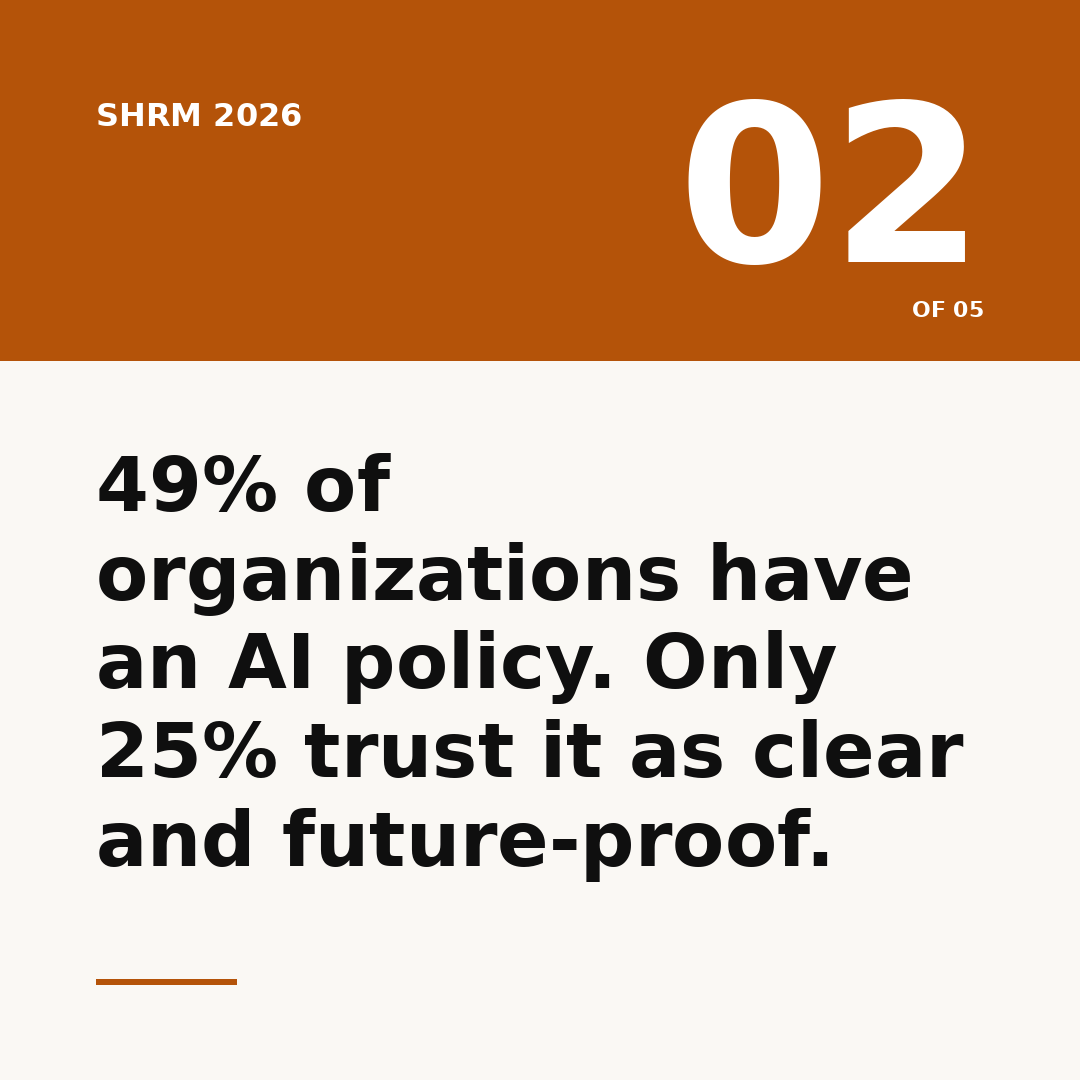
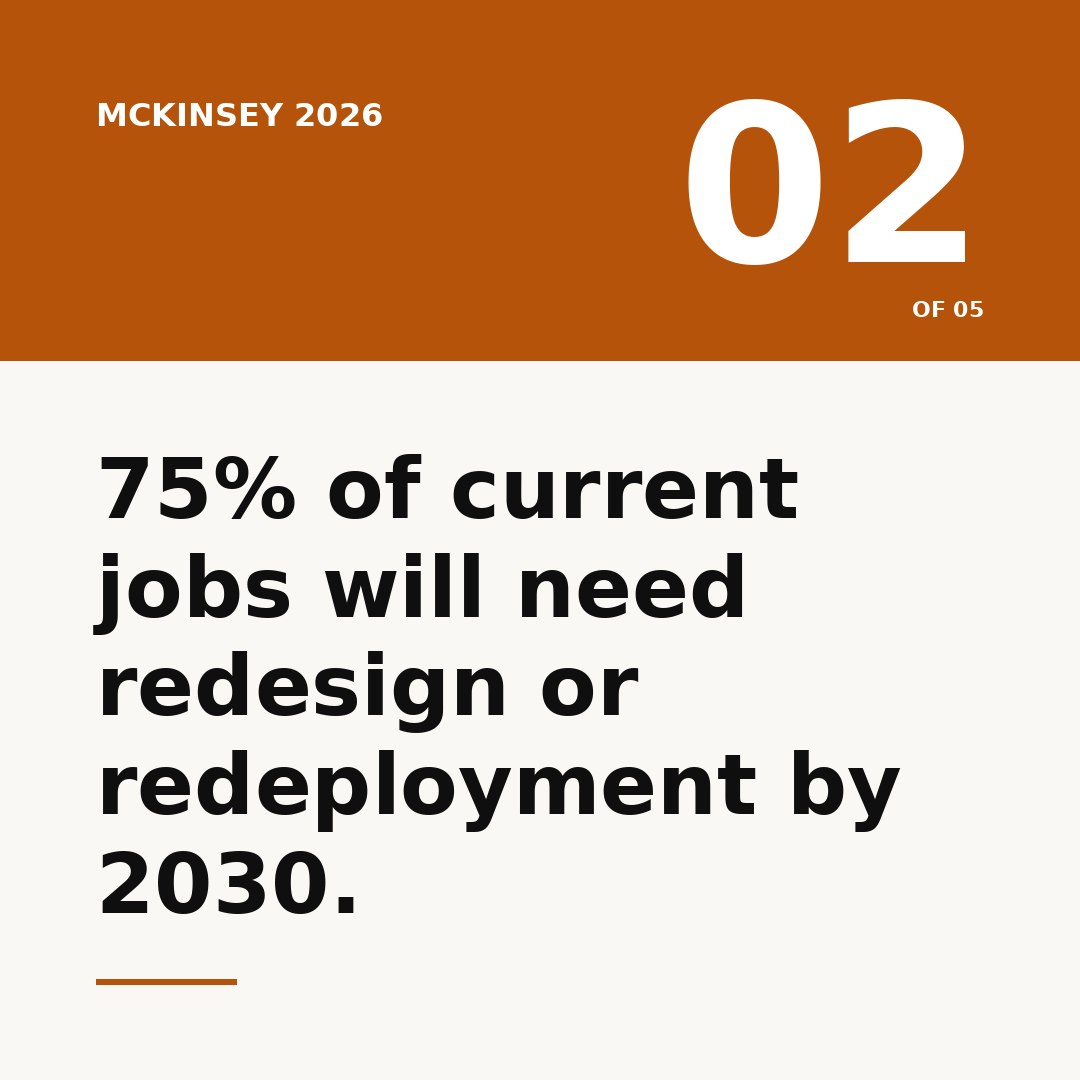
/linkedin-post run for 2026-05-19 (v7): two non-overlapping themes
Climate / heat as HR variable (ILO + WEF + IFC) and scenario-based
workforce planning under AI uncertainty (McKinsey + BCG). Both
verified distinct from all 14 prior themes on the dedup ledger plus
the Gen Z / workforce-data adjacencies flagged on the prior draft.

Only 2 options this run instead of 3 — the third-theme scout hit
two consecutive 529 (server overload) errors. Rather than recycle a
covered theme or accept adjacency, this commit delivers two strong
non-overlapping options; a third can be added via follow-up scout
when the API is stable. Orphaned option-3 carousel (expat-package-
retired from prior commit d0d5f57) removed from working tree.

Changed region(s): [[0.0917, 0.3972, 0.8861, 0.8556], [0.0917, 0.0917, 0.3667, 0.1222]]

diff --git a/posts/drafts/best-practices-2026-05-19.md b/posts/drafts/best-practices-2026-05-19.md
@@ -1,87 +1,63 @@
-# Daily HR best-practices posts — 2026-05-19 (v6, novel themes)
+# Daily HR best-practices posts — 2026-05-19 (v7, two genuinely-distant themes)
 
 Source brief: posts/drafts/best-practices-research-2026-05-19.md (novel-themes special run)
 Regional lens: APAC relevance filter, universal framing.
-Themes covered: AI value-capture paradox, AI governance in HR, Global mobility reinvention.
+Themes covered: climate/heat as HR variable, scenario-based workforce planning under AI uncertainty.
 
-All three themes confirmed distinct from the 11 entries in `.claude/skills/linkedin-post/usage-history.md`.
+**Note: 2 options instead of 3 this run.** The third-theme scout hit two consecutive 529 (server overload) errors and never executed. Rather than recycle an already-covered theme or accept adjacency to one of the 14 entries on the exclusion list, this run delivers two strong non-overlapping options. A third can be added with a follow-up scout when the API is stable.
 
-Prior runs preserved in git history (commits c2400ef, 1ffa92f, 9f2ad7b, f2dc9b0, d2aee45, 86fc0e4).
+Both themes verified distinct from all 14 prior entries in `.claude/skills/linkedin-post/usage-history.md` plus the Gen Z / workforce-data adjacencies flagged on the prior draft.
+
+Prior runs preserved in git history (commits c2400ef, 1ffa92f, 9f2ad7b, f2dc9b0, d2aee45, 86fc0e4, d0d5f57).
 
 ---
 
-## Option 1 — ai-value-is-a-measurement-problem
-- **Theme:** AI productivity paradox / value-capture gap (5 Tier-1 firms: PwC, McKinsey, BCG, Deloitte, Mercer)
-- **Source reports:** PwC 29th Global CEO Survey 2026; BCG "Making AI Productivity Deliver Real Value" 2026; McKinsey "AI productivity gains and the performance paradox" 2026
-- **Source URLs:** https://www.pwc.com/gx/en/news-room/press-releases/2026/pwc-2026-global-ceo-survey.html · https://www.bcg.com/publications/2026/making-ai-productivity-deliver-real-value · https://www.mckinsey.com/capabilities/strategy-and-corporate-finance/our-insights/where-ai-will-create-value-and-where-it-wont
+## Option 1 — climate-is-an-hr-variable
+- **Theme:** Climate / heat as labor productivity issue (APAC-acute) — 3 multilateral sources: ILO, WEF, IFC
+- **Source reports:** ILO heat-stress and labour productivity data (updated 2026); WEF climate-workforce stories 2026; IFC "Hidden Potential: Inclusive Jobs in Green Transitions" 2026
+- **Source URLs:** https://www.ilo.org/resource/news/increase-heat-stress-predicted-bring-productivity-loss-equivalent-80 · https://www.ifc.org/content/dam/ifc/doc/2026/how-employers-can-accelerate-inclusive-jobs-in-green-transitions.pdf
 - **Carousel (5 slides):** posts/drafts/carousels/2026-05-19-option-1/
-  - slide-1 · Future of work · "AI investment without value capture is becoming the rule."
-  - slide-2 · PwC 2026 · "56% of CEOs got nothing from their AI investments."
-  - slide-3 · BCG 2026 · "Just 5% of firms capture substantial financial gains from AI."
-  - slide-4 · The CHRO read · "The 5% built a measurement discipline first — operating model, baseline, ROI cadence."
-  - slide-5 · Your move · "What's your AI value-capture cadence?"
-- **Image alt:** Minimalist navy-accented card: "AI investment without value capture is becoming the rule."
-- **Word count:** 48
+  - slide-1 · Climate risk · "Climate is becoming a measurable HR variable."
+  - slide-2 · ILO 2026 · "70% of the global workforce — 2.4B workers — is exposed to excessive heat at work."
+  - slide-3 · ILO 2026 · "By 2030, heat stress could cost 3.8% of global working hours."
+  - slide-4 · The CHRO read · "APAC and South Asia bear the highest exposure. Heat policy is HR policy."
+  - slide-5 · Your move · "Where does climate sit in your workforce planning?"
+- **Image alt:** Minimalist navy-accented card: "Climate is becoming a measurable HR variable."
+- **Word count:** 49
 - **Status:** draft
 
 ---POST---
-AI investment without value capture is becoming the rule.
+Climate is becoming a measurable HR variable.
 
-PwC 2026: 56% of CEOs say they got nothing from AI. BCG: just 5% capture substantial financial gains.
+ILO 2026: 70% of the global workforce (2.4B workers) is exposed to excessive heat at work. By 2030, heat stress could cost 3.8% of working hours. APAC and South Asia bear the highest exposure.
 
-The 5% built a measurement discipline first — operating model, baseline, ROI cadence — and bought tools second.
+Heat policy is HR policy.
 
-#FutureOfWork #AIatWork #PeopleStrategy
+#ClimateRisk #FutureOfWork #PeopleStrategy
 ---END---
 
 ---
 
-## Option 2 — hr-and-the-ai-governance-room
-- **Theme:** AI governance inside HR (decision rights, algorithmic accountability) — 4 firms: SHRM, Deloitte, IBM IBV, Aon
-- **Source reports:** SHRM State of AI in HR 2026 (May 2026); IBM IBV "Reshaping C-suite Roles for the AI Era" (May 2026); Deloitte 2026 Global Human Capital Trends; Aon 2026 Human Capital Outlook
-- **Source URLs:** https://www.shrm.org/topics-tools/research/state-of-ai-hr-2026/full-report · https://newsroom.ibm.com/2026-05-04-ibm-study-ceos-are-reshaping-c-suite-roles-for-the-ai-era
+## Option 2 — plan-for-multiple-futures
+- **Theme:** Scenario-based workforce planning under AI uncertainty — 2 Tier-1 firms (McKinsey, BCG) + Conference Board CHRO Confidence supporting
+- **Source reports:** McKinsey The State of Organizations 2026; McKinsey "The critical role of strategic workforce planning in the age of AI" 2026; BCG "AI Transformation Is a Workforce Transformation" 2026
+- **Source URLs:** https://www.mckinsey.com/capabilities/people-and-organizational-performance/our-insights/the-critical-role-of-strategic-workforce-planning-in-the-age-of-ai · https://www.bcg.com/publications/2026/ai-transformation-is-a-workforce-transformation
 - **Carousel (5 slides):** posts/drafts/carousels/2026-05-19-option-2/
-  - slide-1 · Governance · "AI makes people decisions. Who governs the policy?"
-  - slide-2 · SHRM 2026 · "49% of organizations have an AI policy. Only 25% trust it as clear and future-proof."
-  - slide-3 · SHRM 2026 · "52% of companies don't involve HR in their AI strategy."
-  - slide-4 · The CHRO read · "The AI committee needs HR's chair filled — by HR."
-  - slide-5 · Your move · "Where does HR sit in your AI governance architecture?"
-- **Image alt:** Minimalist rust-accented card: "AI makes people decisions. Who governs the policy?"
-- **Word count:** 48
+  - slide-1 · Workforce planning · "Annual headcount planning is breaking under AI uncertainty."
+  - slide-2 · McKinsey 2026 · "75% of current jobs will need redesign or redeployment by 2030."
+  - slide-3 · BCG 2026 · "Future-built firms plan to upskill 50%+ of employees on AI."
+  - slide-4 · The CHRO read · "Scenario-based planning replaces single-point forecasts."
+  - slide-5 · Your move · "How many futures does your workforce plan stress-test?"
+- **Image alt:** Minimalist rust-accented card: "Annual headcount planning is breaking under AI uncertainty."
+- **Word count:** 47
 - **Status:** draft
 
 ---POST---
-AI is making people decisions in your company. Who owns the policy?
+Annual headcount planning is breaking under AI uncertainty.
 
-SHRM 2026: 49% of organizations have AI policies, but only 25% find them clear and future-proof. 52% don't involve HR in AI strategy.
+McKinsey 2026: 75% of current jobs will need redesign, upskilling, or redeployment by 2030. BCG 2026: future-built firms plan to upskill 50%+ of employees on AI versus 20% for laggards.
 
-The AI committee needs HR's chair filled — by HR.
+Scenario-based workforce planning replaces single-point forecasts.
 
-#AIatWork #Governance #HumanResources
----END---
-
----
-
-## Option 3 — expat-package-retired
-- **Theme:** Global mobility reinvented (short-term/virtual replacing long-term expat) — 5 firms: Mercer, Deloitte, BCG, KPMG, EY
-- **Source reports:** BCG "Global Talent Mobility Is Slowing and Shifting" 2026; KPMG 2026 mobility data; EY 2026 Mobility Reimagined Survey; Mercer Talent Mobility 2026
-- **Source URLs:** https://www.bcg.com/publications/2025/global-talent-mobility-is-slowing-and-shifting · https://www.ey.com/en_gl/insights/workforce/mobility-reimagined-survey · https://www.mercer.com/solutions/talent-and-rewards/talent-mobility/
-- **Carousel (5 slides):** posts/drafts/carousels/2026-05-19-option-3/
-  - slide-1 · Global mobility · "The 3-year expat package is being quietly retired."
-  - slide-2 · BCG 2026 · "Cross-border mobility down 8.5% YoY. 220,000 fewer high-skill moves."
-  - slide-3 · KPMG 2026 · "70% of organizations now use short-term and rotational assignments."
-  - slide-4 · The CHRO read · "Short-term, hybrid, and virtual work is the new mobility default."
-  - slide-5 · Your move · "What's your mobility mix one year from now?"
-- **Image alt:** Minimalist moss-accented card: "The 3-year expat package is being quietly retired."
-- **Word count:** 48
-- **Status:** draft
-
----POST---
-The 3-year expat package is being quietly retired.
-
-BCG 2026: cross-border professional mobility is down 8.5% year over year — 220,000 fewer high-skill moves. KPMG: 70% of organizations now lean on short-term and rotational assignments.
-
-Short-term, hybrid, and virtual cross-border work is the new default.
-
-#GlobalMobility #FutureOfWork #PeopleStrategy
+#FutureOfWork #WorkforcePlanning #PeopleStrategy
 ---END---

diff --git a/.claude/skills/linkedin-post/usage-history.md b/.claude/skills/linkedin-post/usage-history.md
@@ -17,6 +17,20 @@ When excluding, match on **parent theme**, not slug — two slugs about "Human-A
 
 ## Used themes (most recent first)
 
+### Climate / heat as labor productivity issue
+- Slugs: climate-is-an-hr-variable
+- Source stats: ILO 2026 — 70% of global workforce (2.4B workers) exposed to excessive heat at work; by 2030, heat stress could cost 3.8% of global working hours; APAC and South Asia highest exposure
+- Commits: (pending this run)
+- Date(s): 2026-05-19
+- Distinct from #10 (Job quality & informality) — that one is informal-economy quality, this is heat-stress productivity loss, different mechanism
+
+### Scenario-based workforce planning under AI uncertainty
+- Slugs: plan-for-multiple-futures
+- Source stats: McKinsey 2026 — 75% of current jobs will need redesign, upskilling, or redeployment by 2030; BCG 2026 — future-built firms upskill 50%+ on AI vs 20% for laggards
+- Commits: (pending this run)
+- Date(s): 2026-05-19
+- Distinct from #11 (Skills-based workforce planning, HR capability gap) — that one is skills inventory/tool maturity, this is scenario modeling under uncertainty, different planning discipline
+
 ### AI productivity paradox / value-capture gap
 - Slugs: ai-value-is-a-measurement-problem
 - Source stats: PwC 2026 — 56% of CEOs got nothing from AI investments; BCG 2026 — only 5% capture substantial financial gains
